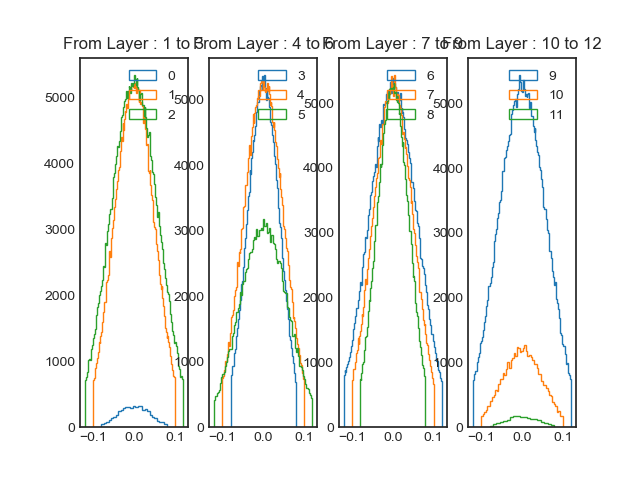
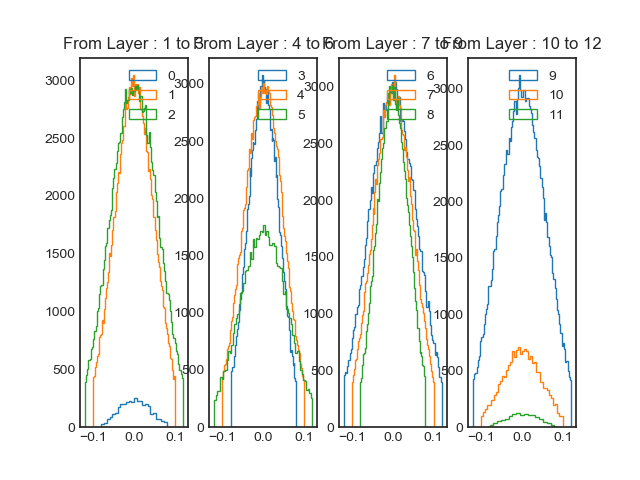
s

diff --git a/NeuralNetwork/Unfair/b_case.py b/NeuralNetwork/Unfair/b_case.py
@@ -227,12 +227,12 @@ num_epoch = 21
 batch_size = 10
 print_size = 1
 
-learning_rate = 0.00001
+learning_rate = 0.00002
 learnind_rate_decay = 0.0
 beta1,beta2,adam_e = 0.9,0.9,1e-8
 
 # define class here
-channel_sizes = 196
+channel_sizes = 128
 l1 = CNN(3,3,channel_sizes,stddev=0.04)
 l2 = CNN(3,channel_sizes,channel_sizes,stddev=0.05)
 l3 = CNN(3,channel_sizes,channel_sizes,stddev=0.06)
@@ -679,7 +679,6 @@ with tf.Session() as sess:
         test_cot.append(test_cota/(len(test_batch)/batch_size))
         test_cota,test_acca = 0,0
         train_cota,train_acca = 0,0
-    sys.exit()
 
     # Normalize the cost of the training
     train_cot = (train_cot-min(train_cot) ) / (max(train_cot)-min(train_cot))
@@ -705,11 +704,11 @@ with tf.Session() as sess:
     show_hist_of_weigt(sess.run(all_weights),status='After')
     # ------- histogram of weights after training ------
 
+    sys.exit()
+
     # get random 50 images from the test set and vis the gradient
     test_batch = test_batch[:batch_size,:,:,:]
     test_label = test_label[:batch_size,:]
-
-    sys.exit()
 
     # ------ layer wise activation -------
     layer3_values = sess.run(layer3,feed_dict={x:test_batch})
